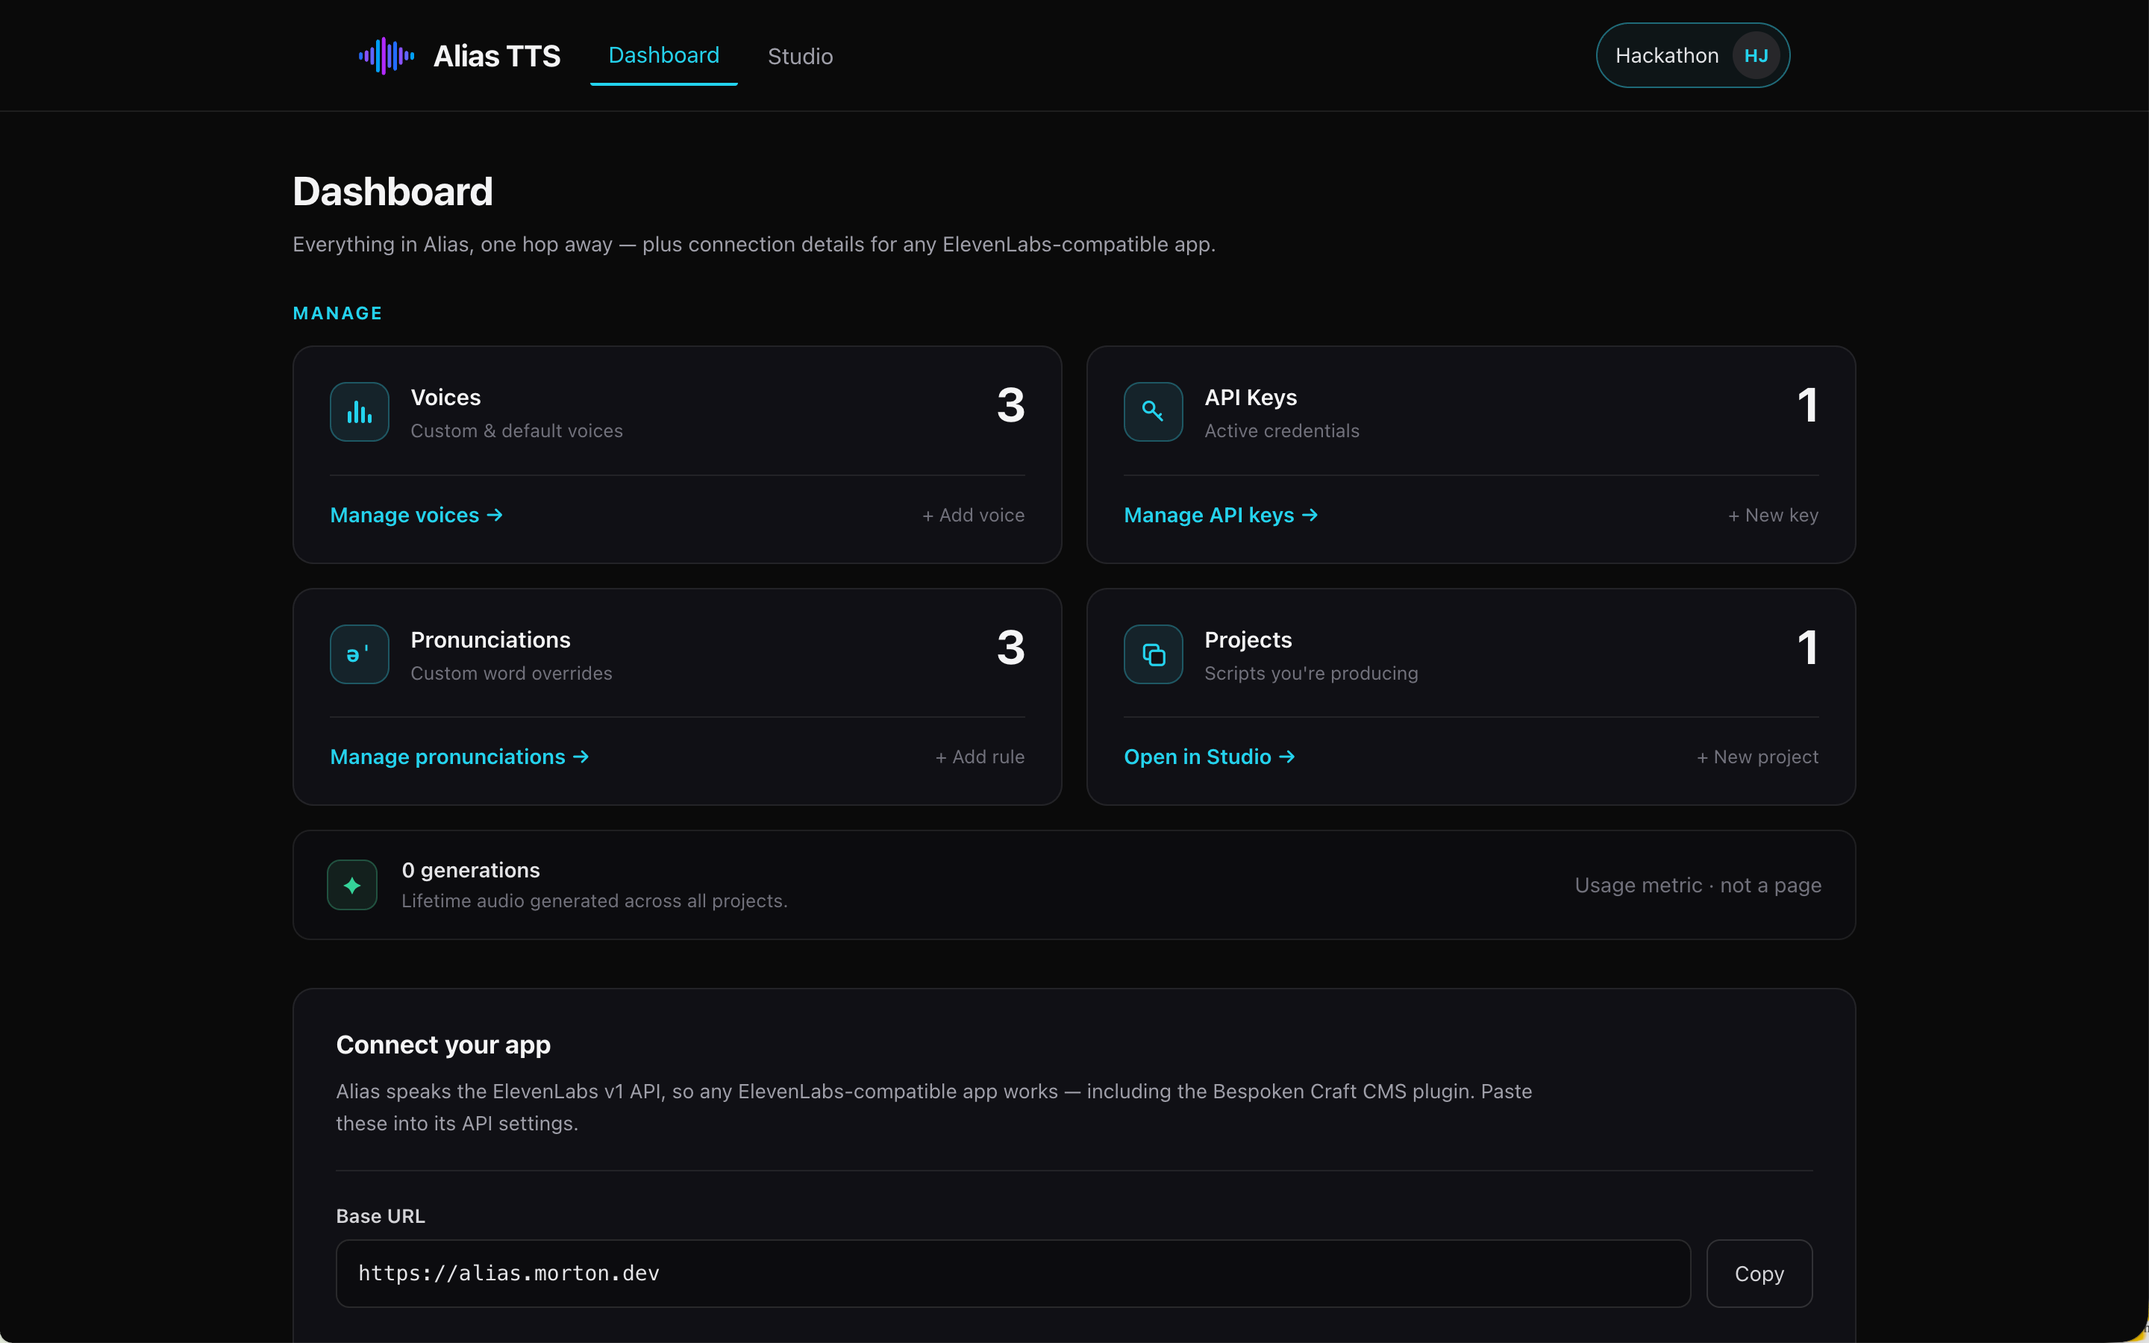
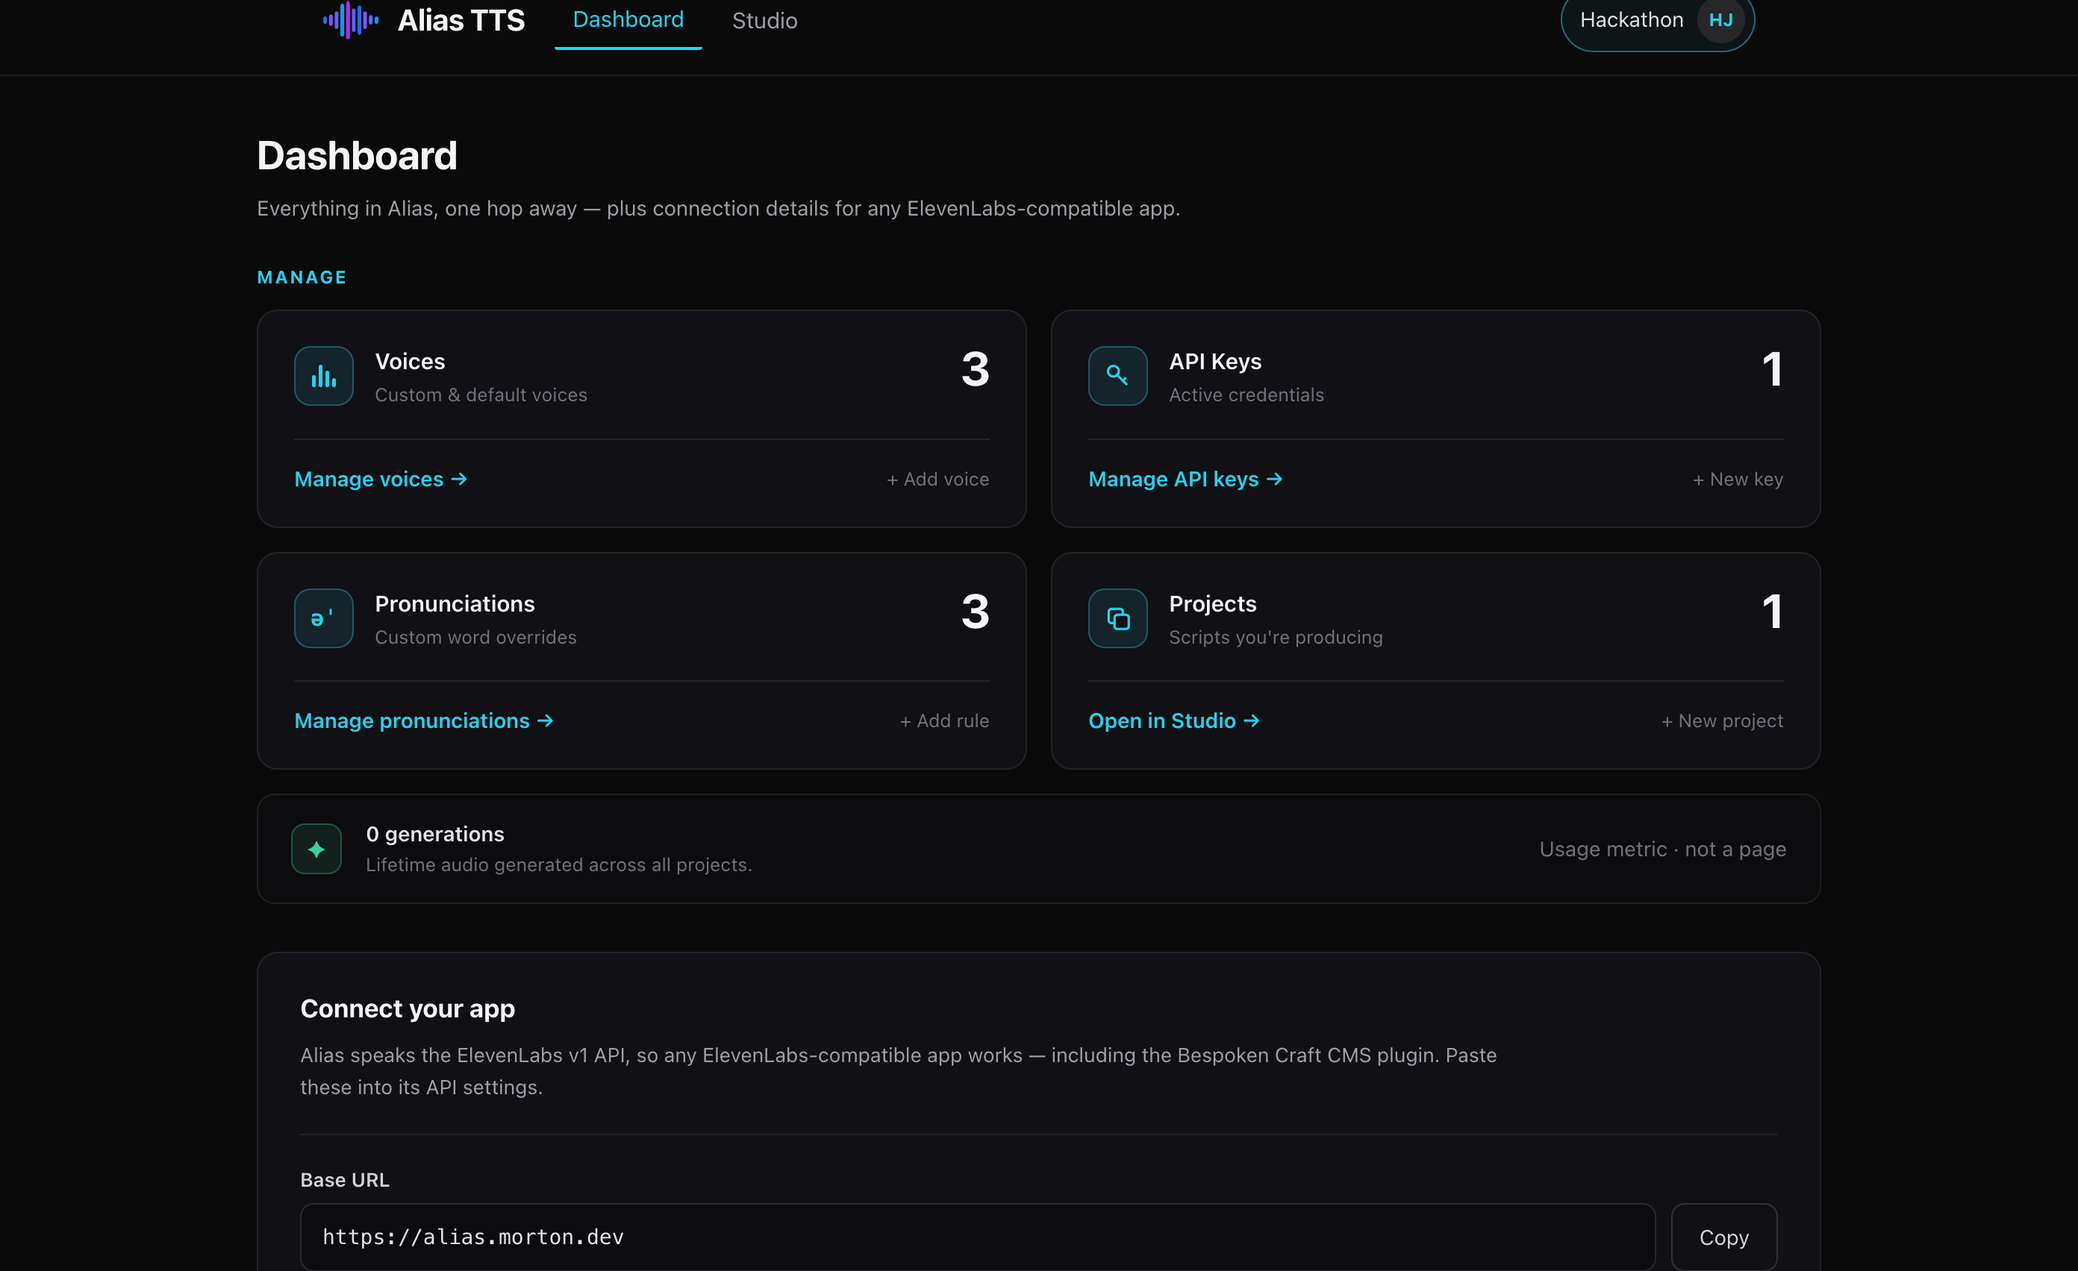
feat(about): open screenshots in a window-zoom lightbox
Clicking a capture lifts its whole browser frame off the page (FLIP
transform, Apple-sheet easing) into a centered full view; the first
traffic light becomes a live macOS-style close control. Esc, click,
scroll, or swipe dismisses; focus is managed via a real <dialog>;
reduced-motion gets a crossfade. Captures are re-cropped 48px per edge
to drop the desktop-wallpaper slivers macOS window captures leave
around rounded corners — invisible as thumbnails, ugly at full size.

diff --git a/resources/views/components/about/shot.blade.php b/resources/views/components/about/shot.blade.php
@@ -1,36 +1,313 @@
 {{-- A screenshot in a browser frame. Drop a real capture at
      public/images/about/{file} and it replaces the placeholder automatically —
      no template change needed. The URL pill doubles as the capture note: it
-     names the page the screenshot should show. --}}
+     names the page the screenshot should show.
+
+     Real captures open in a lightbox that keeps the metaphor: the whole
+     "window" lifts off the page (FLIP transform, Apple-sheet easing) and the
+     first traffic light becomes a live macOS-style close control. Esc, click,
+     or scroll dismisses it; reduced-motion gets a plain crossfade. --}}
 @props(['file', 'url', 'note'])
 @php
     $path = 'images/about/'.$file;
     $src = file_exists(public_path($path)) ? asset($path) : null;
 @endphp
 <figure {{ $attributes }}>
-    <div class="overflow-hidden rounded-xl border border-zinc-800 bg-[#0d0d10] shadow-[0_24px_70px_-32px_rgba(0,0,0,0.9)]">
-        <div class="flex items-center gap-1.5 border-b border-zinc-800/80 bg-white/[0.03] px-4 py-2.5">
-            <span class="h-2.5 w-2.5 rounded-full bg-zinc-700"></span>
-            <span class="h-2.5 w-2.5 rounded-full bg-zinc-700"></span>
-            <span class="h-2.5 w-2.5 rounded-full bg-zinc-700"></span>
-            <span class="ml-3 min-w-0 flex-1 truncate rounded-md bg-black/40 px-3 py-1 font-mono text-[11px] text-zinc-500">{{ $url }}</span>
-        </div>
-        @if ($src)
-            <img src="{{ $src }}" alt="{{ $note }}" loading="lazy" class="block w-full">
-        @else
-            <div class="relative flex aspect-[16/10] flex-col items-center justify-center gap-3 px-6 text-center">
-                <svg viewBox="0 0 34 24" class="pointer-events-none absolute left-1/2 top-1/2 h-40 w-auto -translate-x-1/2 -translate-y-1/2 opacity-[0.05]" aria-hidden="true">
-                    @foreach ([[0, 10], [5, 15], [10, 20], [15, 24], [20, 18], [25, 12], [30, 7]] as [$x, $h])
-                        <rect x="{{ $x }}" y="{{ (24 - $h) / 2 }}" width="4" height="{{ $h }}" rx="2" fill="#a1a1aa"/>
-                    @endforeach
-                </svg>
-                <span class="text-sm font-medium text-zinc-500">Screenshot on the way</span>
-                <span class="max-w-sm text-xs leading-relaxed text-zinc-600">{{ $note }}</span>
-                <code class="rounded bg-white/[0.04] px-2 py-1 font-mono text-[11px] text-zinc-600">public/{{ $path }}</code>
-            </div>
-        @endif
-    </div>
     @if ($src)
-        <figcaption class="mt-3 text-center text-xs leading-relaxed text-zinc-500">{{ $note }}</figcaption>
+    <button type="button" data-shot-trigger class="shot-trigger group block w-full cursor-zoom-in text-left"
+            aria-label="View full size — {{ $note }}" aria-haspopup="dialog">
+    @endif
+        <div data-shot-frame class="overflow-hidden rounded-xl border border-zinc-800 bg-[#0d0d10] shadow-[0_24px_70px_-32px_rgba(0,0,0,0.9)] transition-colors duration-300 group-hover:border-zinc-600">
+            <div data-shot-chrome class="flex items-center gap-1.5 border-b border-zinc-800/80 bg-white/[0.03] px-4 py-2.5">
+                <span class="h-2.5 w-2.5 rounded-full bg-zinc-700"></span>
+                <span class="h-2.5 w-2.5 rounded-full bg-zinc-700"></span>
+                <span class="h-2.5 w-2.5 rounded-full bg-zinc-700"></span>
+                <span class="ml-3 min-w-0 flex-1 truncate rounded-md bg-black/40 px-3 py-1 font-mono text-[11px] text-zinc-500">{{ $url }}</span>
+            </div>
+            @if ($src)
+                <img src="{{ $src }}" alt="{{ $note }}" loading="lazy" class="block w-full">
+            @else
+                <div class="relative flex aspect-[16/10] flex-col items-center justify-center gap-3 px-6 text-center">
+                    <svg viewBox="0 0 34 24" class="pointer-events-none absolute left-1/2 top-1/2 h-40 w-auto -translate-x-1/2 -translate-y-1/2 opacity-[0.05]" aria-hidden="true">
+                        @foreach ([[0, 10], [5, 15], [10, 20], [15, 24], [20, 18], [25, 12], [30, 7]] as [$x, $h])
+                            <rect x="{{ $x }}" y="{{ (24 - $h) / 2 }}" width="4" height="{{ $h }}" rx="2" fill="#a1a1aa"/>
+                        @endforeach
+                    </svg>
+                    <span class="text-sm font-medium text-zinc-500">Screenshot on the way</span>
+                    <span class="max-w-sm text-xs leading-relaxed text-zinc-600">{{ $note }}</span>
+                    <code class="rounded bg-white/[0.04] px-2 py-1 font-mono text-[11px] text-zinc-600">public/{{ $path }}</code>
+                </div>
+            @endif
+        </div>
+    @if ($src)
+    </button>
+    <figcaption class="mt-3 text-center text-xs leading-relaxed text-zinc-500">{{ $note }}</figcaption>
     @endif
 </figure>
+
+@if ($src)
+@once
+<style>
+    .shot-trigger:focus-visible { outline: 2px solid #22d3ee; outline-offset: 4px; border-radius: .85rem; }
+
+    dialog.shot-lb {
+        position: fixed; inset: 0; width: 100%; height: 100%;
+        max-width: none; max-height: none; margin: 0; padding: 0; border: 0;
+        background: transparent; overflow: hidden; cursor: zoom-out;
+    }
+    dialog.shot-lb::backdrop { background: transparent; }
+
+    /* The scrim borrows the page's light-source motif: near-black with a faint
+       glow where the window lands. */
+    .shot-lb-backdrop {
+        position: absolute; inset: 0; opacity: 0;
+        background:
+            radial-gradient(52% 42% at 50% 44%, rgba(97,100,255,.13), rgba(34,211,238,.05) 52%, transparent 76%),
+            rgba(9,9,11,.93);
+    }
+
+    .shot-lb-window {
+        position: fixed; margin: 0; transform-origin: top left; will-change: transform;
+        box-shadow: 0 60px 160px -28px rgba(0,0,0,.95);
+    }
+    .shot-lb-window .font-mono { font-size: 12px; color: #9d9da6; }
+
+    /* In the expanded window the first traffic light is live — red like the
+       real thing, with the × surfacing on hover, exactly as macOS does it. */
+    .shot-lb-close {
+        position: relative; display: grid; place-items: center;
+        height: 10px; width: 10px; flex: none; border-radius: 9999px;
+        border: 0; padding: 0; background: #ff5f57; cursor: pointer;
+    }
+    .shot-lb-close::before { content: ''; position: absolute; inset: -8px; }
+    .shot-lb-close::after {
+        content: '\d7'; font: 700 11px/1 ui-sans-serif, system-ui;
+        color: rgba(77,0,0,.75); opacity: 0; transition: opacity .15s ease;
+    }
+    .shot-lb-close:hover::after, .shot-lb-close:focus-visible::after { opacity: 1; }
+    .shot-lb-close:focus-visible { outline: 2px solid #22d3ee; outline-offset: 3px; }
+
+    .shot-lb-caption {
+        position: fixed; left: 50%; margin: 0; max-width: min(46rem, 88vw);
+        transform: translateX(-50%) translateY(6px); opacity: 0; pointer-events: none;
+        text-align: center; font-size: 13px; line-height: 1.6; color: #a1a1aa;
+        transition: opacity .32s ease, transform .32s cubic-bezier(.32,.72,0,1);
+    }
+    .shot-lb-caption.is-in { opacity: 1; transform: translateX(-50%) translateY(0); }
+
+    @media (prefers-reduced-motion: reduce) {
+        .shot-lb-caption { transition: opacity .16s ease; transform: translateX(-50%); }
+        .shot-lb-caption.is-in { transform: translateX(-50%); }
+    }
+</style>
+
+<dialog id="shot-lb" class="shot-lb" aria-label="Screenshot">
+    <div class="shot-lb-backdrop" data-lb-backdrop></div>
+    <div data-lb-stage></div>
+    <p class="shot-lb-caption" data-lb-caption></p>
+</dialog>
+
+<script>
+(() => {
+    const dialog = document.getElementById('shot-lb');
+    const backdrop = dialog.querySelector('[data-lb-backdrop]');
+    const stage = dialog.querySelector('[data-lb-stage]');
+    const caption = dialog.querySelector('[data-lb-caption]');
+    const reduced = window.matchMedia('(prefers-reduced-motion: reduce)');
+    const EASE = 'cubic-bezier(.32,.72,0,1)';
+    const OPEN_MS = 440, CLOSE_MS = 340;
+
+    let state = 'closed'; // closed | opening | open | closing
+    let trigger = null, frame = null, clone = null, finalRect = null;
+
+    // The chrome bar keeps a fixed height while the shot scales, so the fitted
+    // width is solved against the leftover vertical room.
+    const fitRect = (chromeH, aspect) => {
+        const vw = window.innerWidth, vh = window.innerHeight;
+        const w = Math.min(1440, vw * 0.94, (vh * 0.88 - chromeH) / aspect);
+        const h = chromeH + w * aspect + 2;
+        return { x: (vw - w) / 2, y: Math.max(vh * 0.03, (vh - h) / 2 - vh * 0.012), w };
+    };
+
+    const invert = (from, to) =>
+        `translate(${from.left - to.left}px, ${from.top - to.top}px) ` +
+        `scale(${from.width / to.width}, ${from.height / to.height})`;
+
+    // transitionend with a timeout fallback, so a dropped event can't strand
+    // the overlay.
+    const settle = (el, timeoutMs, fn) => {
+        let done = false;
+        const finish = () => {
+            if (done) return;
+            done = true;
+            el.removeEventListener('transitionend', onEnd);
+            clearTimeout(t);
+            fn();
+        };
+        const onEnd = (e) => { if (e.target === el) finish(); };
+        el.addEventListener('transitionend', onEnd);
+        const t = setTimeout(finish, timeoutMs);
+    };
+
+    const lockScroll = () => {
+        const gap = window.innerWidth - document.documentElement.clientWidth;
+        document.documentElement.style.overflow = 'hidden';
+        if (gap > 0) document.body.style.paddingRight = gap + 'px';
+    };
+    const unlockScroll = () => {
+        document.documentElement.style.overflow = '';
+        document.body.style.paddingRight = '';
+    };
+
+    function open(btn, viaKeyboard) {
+        if (state !== 'closed') return;
+        state = 'opening';
+        trigger = btn;
+        frame = btn.querySelector('[data-shot-frame]');
+        const srcImg = frame.querySelector('img');
+
+        clone = frame.cloneNode(true);
+        clone.classList.add('shot-lb-window');
+        clone.style.visibility = 'hidden';
+        const cImg = clone.querySelector('img');
+        cImg.loading = 'eager';
+        // The thumbnail already painted this exact URL, so the flight can start
+        // immediately — warm the full-size decode in the background instead of
+        // holding the animation for it.
+        if (cImg.decode) cImg.decode().catch(() => {});
+
+        const closeBtn = document.createElement('button');
+        closeBtn.type = 'button';
+        closeBtn.className = 'shot-lb-close';
+        closeBtn.setAttribute('aria-label', 'Close full-size view');
+        clone.querySelector('[data-shot-chrome] > span').replaceWith(closeBtn);
+
+        caption.textContent = cImg.alt || '';
+        caption.classList.remove('is-in');
+        dialog.setAttribute('aria-label', cImg.alt || 'Screenshot');
+        stage.replaceChildren(clone);
+        lockScroll();
+        dialog.showModal();
+
+        const aspect = srcImg.naturalWidth ? srcImg.naturalHeight / srcImg.naturalWidth : 0.625;
+        clone.style.width = '1200px'; // provisional, for a stable chrome-height read
+        const chromeH = clone.querySelector('[data-shot-chrome]').getBoundingClientRect().height;
+        const fit = fitRect(chromeH, aspect);
+        clone.style.left = fit.x + 'px';
+        clone.style.top = fit.y + 'px';
+        clone.style.width = fit.w + 'px';
+        finalRect = clone.getBoundingClientRect();
+        caption.style.top = Math.min(finalRect.bottom + 18, window.innerHeight - 44) + 'px';
+
+        // Move focus to the live close dot, but only draw its ring for
+        // keyboard-driven opens — a mouse click shouldn't flash an outline.
+        const focusClose = () => closeBtn.focus({ preventScroll: true, focusVisible: !!viaKeyboard });
+
+        if (reduced.matches) {
+            clone.style.visibility = '';
+            dialog.style.opacity = '0';
+            backdrop.style.transition = 'none';
+            backdrop.style.opacity = '1';
+            requestAnimationFrame(() => {
+                dialog.style.transition = 'opacity 160ms ease';
+                dialog.style.opacity = '1';
+                caption.classList.add('is-in');
+            });
+            state = 'open';
+            focusClose();
+            return;
+        }
+
+        const start = frame.getBoundingClientRect();
+        frame.style.visibility = 'hidden'; // the window has lifted off the page
+        backdrop.style.transition = 'none';
+        backdrop.style.opacity = '0';
+        clone.style.transition = 'none';
+        clone.style.transform = invert(start, finalRect);
+        clone.style.visibility = '';
+        clone.getBoundingClientRect(); // flush, so the flight starts from the frame
+        clone.style.transition = `transform ${OPEN_MS}ms ${EASE}`;
+        backdrop.style.transition = `opacity ${OPEN_MS}ms ${EASE}`;
+        clone.style.transform = 'translate(0px, 0px) scale(1, 1)';
+        backdrop.style.opacity = '1';
+        setTimeout(() => {
+            if (state === 'opening' || state === 'open') caption.classList.add('is-in');
+        }, OPEN_MS * 0.4);
+        focusClose();
+        settle(clone, OPEN_MS + 140, () => { if (state === 'opening') state = 'open'; });
+    }
+
+    function close() {
+        if (state !== 'open' && state !== 'opening') return;
+        state = 'closing';
+        caption.classList.remove('is-in');
+
+        if (!clone || !finalRect) { teardown(); return; } // dismissed before geometry existed
+
+        if (reduced.matches) {
+            dialog.style.transition = 'opacity 140ms ease';
+            dialog.style.opacity = '0';
+            settle(dialog, 240, teardown);
+            return;
+        }
+
+        const start = frame.getBoundingClientRect();
+        clone.style.transition = `transform ${CLOSE_MS}ms ${EASE}`;
+        backdrop.style.transition = `opacity ${CLOSE_MS}ms ${EASE}`;
+        clone.style.transform = invert(start, finalRect);
+        backdrop.style.opacity = '0';
+        settle(clone, CLOSE_MS + 140, teardown);
+    }
+
+    function teardown() {
+        if (state !== 'closing') return;
+        state = 'closed';
+        dialog.close();
+        dialog.style.transition = '';
+        dialog.style.opacity = '';
+        if (frame) frame.style.visibility = '';
+        stage.replaceChildren();
+        clone = null;
+        finalRect = null;
+        unlockScroll();
+        if (trigger) trigger.focus({ preventScroll: true });
+    }
+
+    // Delegated, because this script is emitted alongside the first shot —
+    // later shots don't exist in the DOM yet when it runs.
+    document.addEventListener('click', (e) => {
+        const btn = e.target.closest('[data-shot-trigger]');
+        if (btn) open(btn, e.detail === 0); // detail 0 = keyboard-activated button
+    });
+
+    dialog.addEventListener('cancel', (e) => { e.preventDefault(); close(); });
+    dialog.addEventListener('click', () => close());
+    dialog.addEventListener('close', () => { if (state !== 'closed') { state = 'closing'; teardown(); } });
+
+    // Scroll-away dismissal, gated to the settled state so trackpad inertia
+    // from before the click can't cancel the opening flight.
+    dialog.addEventListener('wheel', (e) => {
+        if (state === 'open' && Math.abs(e.deltaY) > 2) close();
+    }, { passive: true });
+    let touchY = null;
+    dialog.addEventListener('touchstart', (e) => { touchY = e.touches[0].clientY; }, { passive: true });
+    dialog.addEventListener('touchmove', (e) => {
+        if (state === 'open' && touchY !== null && Math.abs(e.touches[0].clientY - touchY) > 12) close();
+    }, { passive: true });
+
+    window.addEventListener('resize', () => {
+        if (state !== 'open' || !clone) return;
+        const cImg = clone.querySelector('img');
+        const aspect = cImg.naturalWidth ? cImg.naturalHeight / cImg.naturalWidth : 0.625;
+        const chromeH = clone.querySelector('[data-shot-chrome]').getBoundingClientRect().height;
+        const fit = fitRect(chromeH, aspect);
+        clone.style.left = fit.x + 'px';
+        clone.style.top = fit.y + 'px';
+        clone.style.width = fit.w + 'px';
+        finalRect = clone.getBoundingClientRect();
+        caption.style.top = Math.min(finalRect.bottom + 18, window.innerHeight - 44) + 'px';
+    });
+})();
+</script>
+@endonce
+@endif

diff --git a/tests/Feature/AboutPageTest.php b/tests/Feature/AboutPageTest.php
@@ -52,4 +52,17 @@ class AboutPageTest extends TestCase
             $response->assertSee('images/about/'.$shot.'.png', false);
         }
     }
+
+    public function test_about_page_screenshots_open_in_a_lightbox(): void
+    {
+        // Each capture is a button that opens the shared lightbox dialog; the
+        // dialog itself must render exactly once.
+        $html = $this->get(route('about'))
+            ->assertOk()
+            ->assertSee('data-shot-trigger', false)
+            ->getContent();
+
+        $this->assertSame(4, substr_count($html, '<button type="button" data-shot-trigger'));
+        $this->assertSame(1, substr_count($html, 'id="shot-lb"'));
+    }
 }
